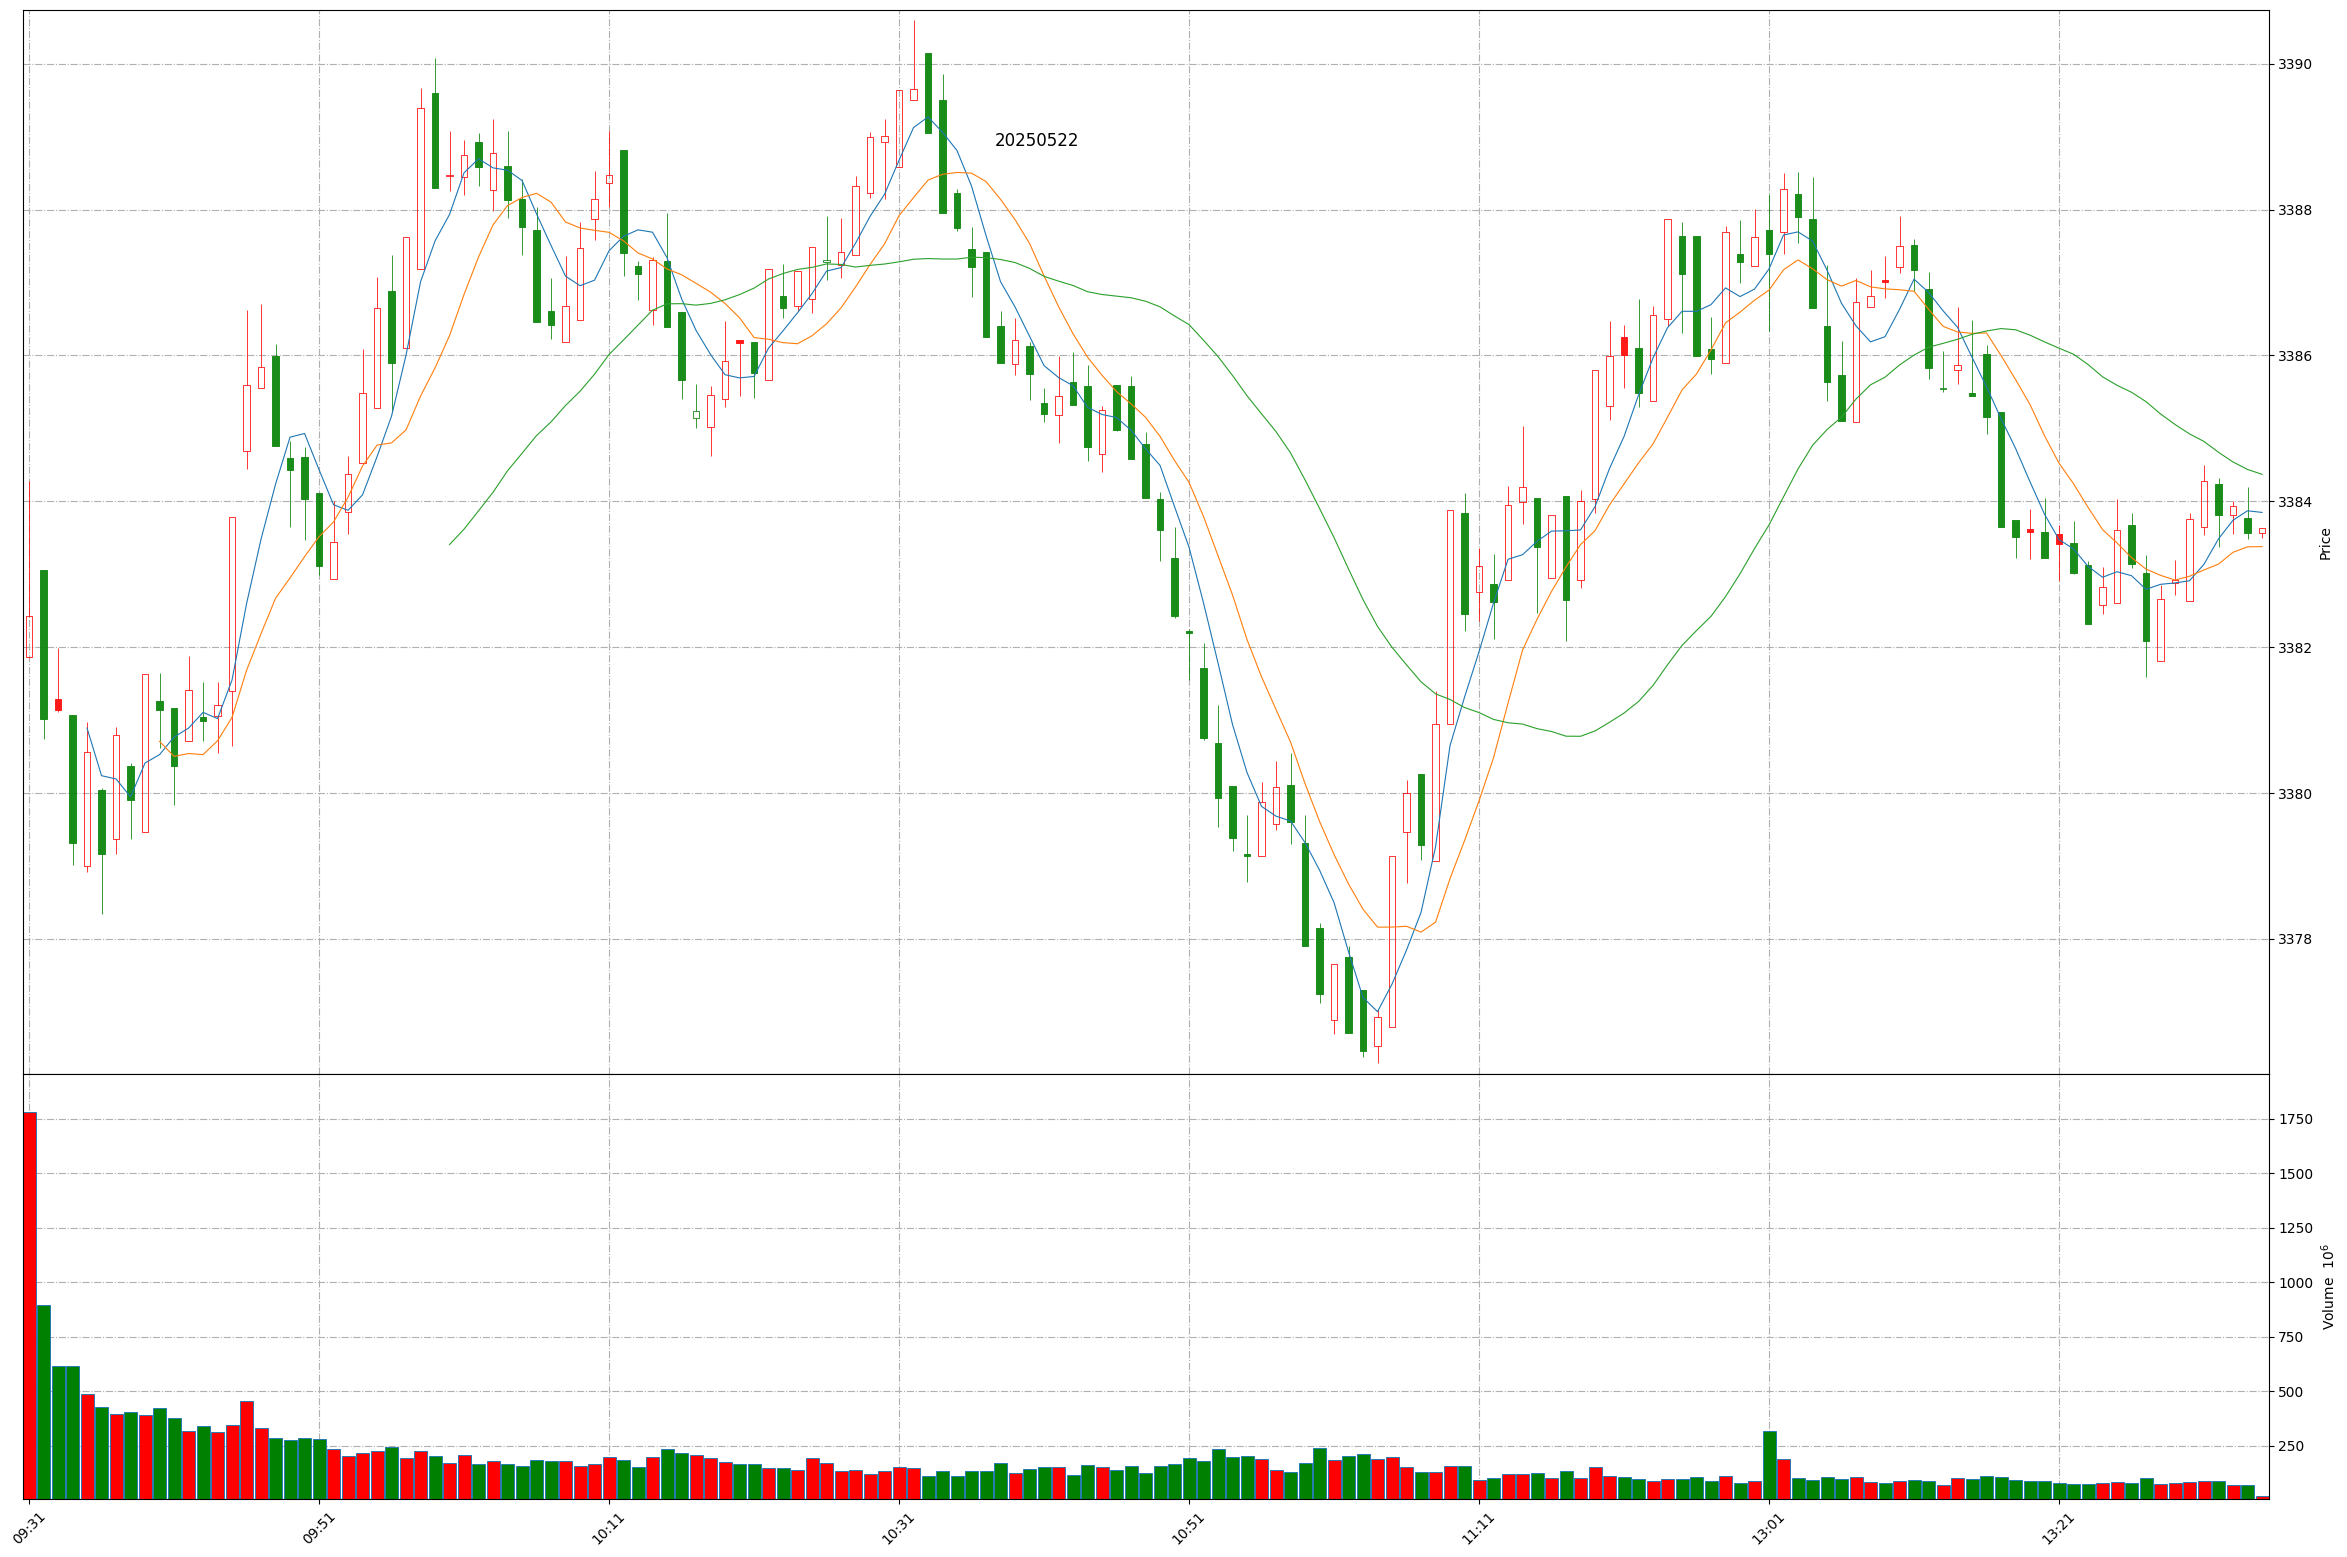
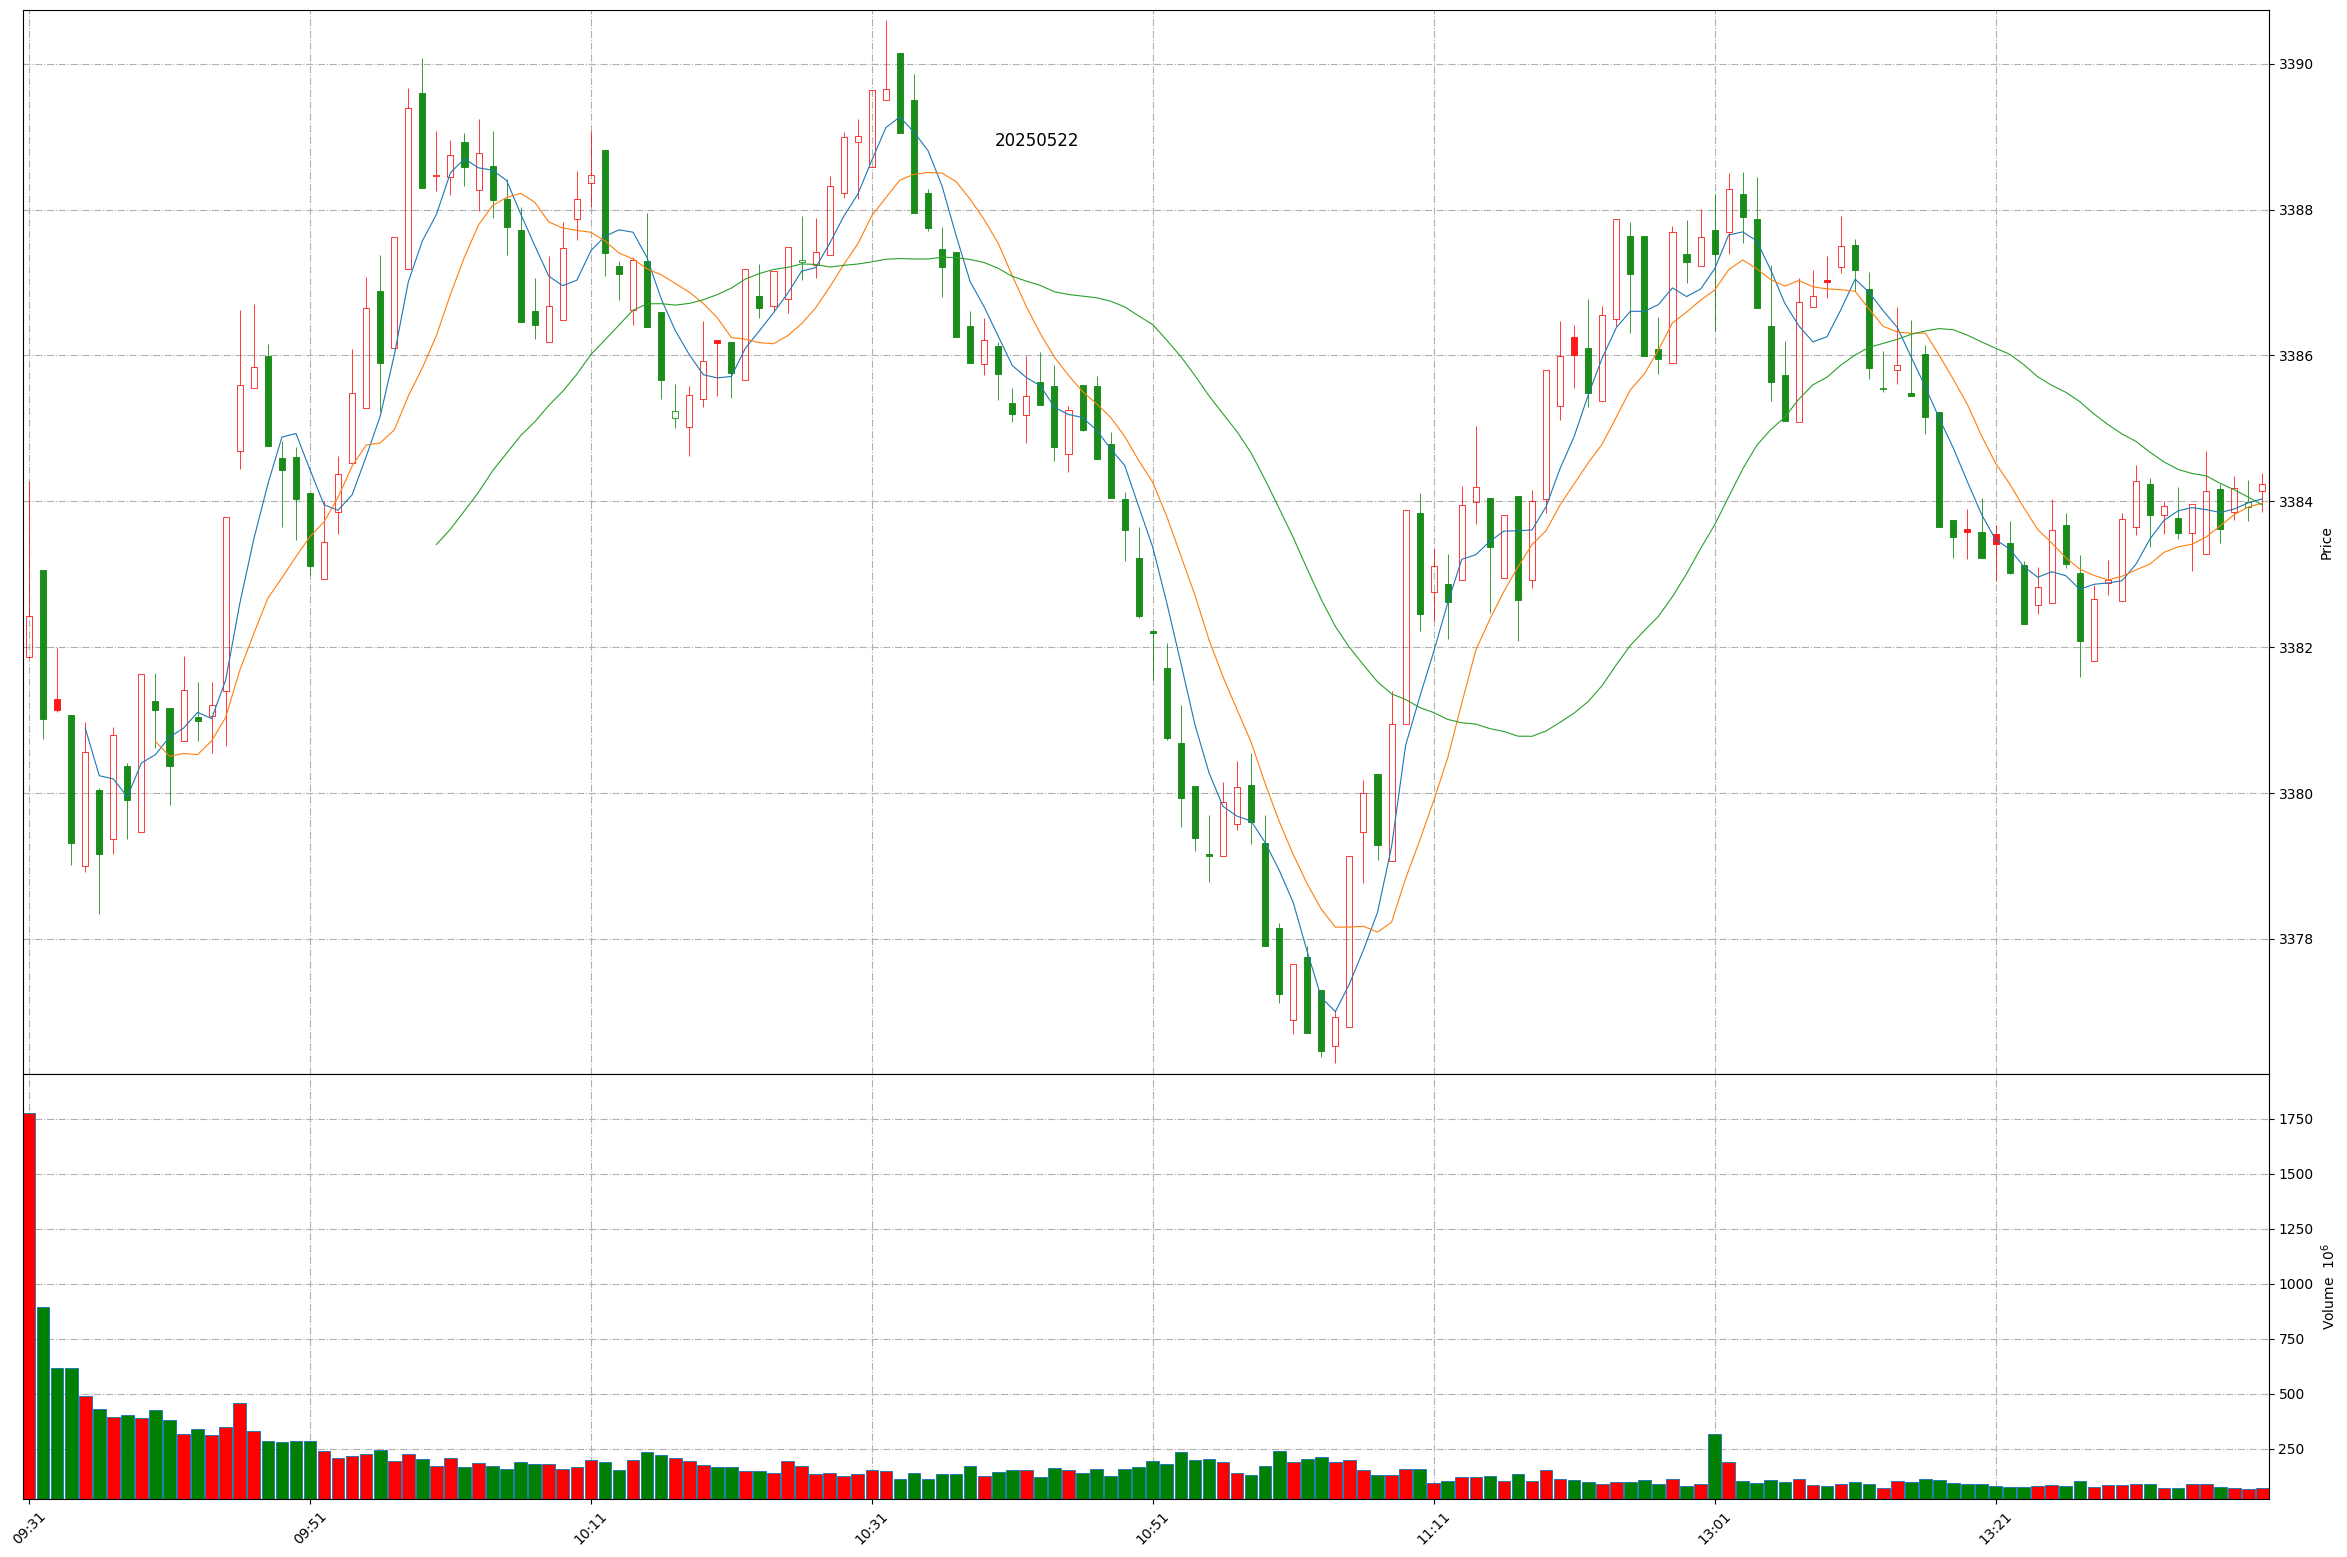
Github action update at 2025-05-22 13:40:14.

diff --git a/README.md b/README.md
@@ -1,11 +1,11 @@
 
 # Daily-A-share-market-quotes 每日 A 股指数（5min 更新）- 20250522
 
-### 上证指数 20250522 13:34
+### 上证指数 20250522 13:40
 ![](./fig/2025/5/20250522-sh000001.png)
 
-### 深证成指 20250522 13:34
+### 深证成指 20250522 13:40
 ![](./fig/2025/5/20250522-sz399001.png)
 
-### 北证50 20250522 13:34
+### 北证50 20250522 13:40
 ![](./fig/2025/5/20250522-bj899050.png)
